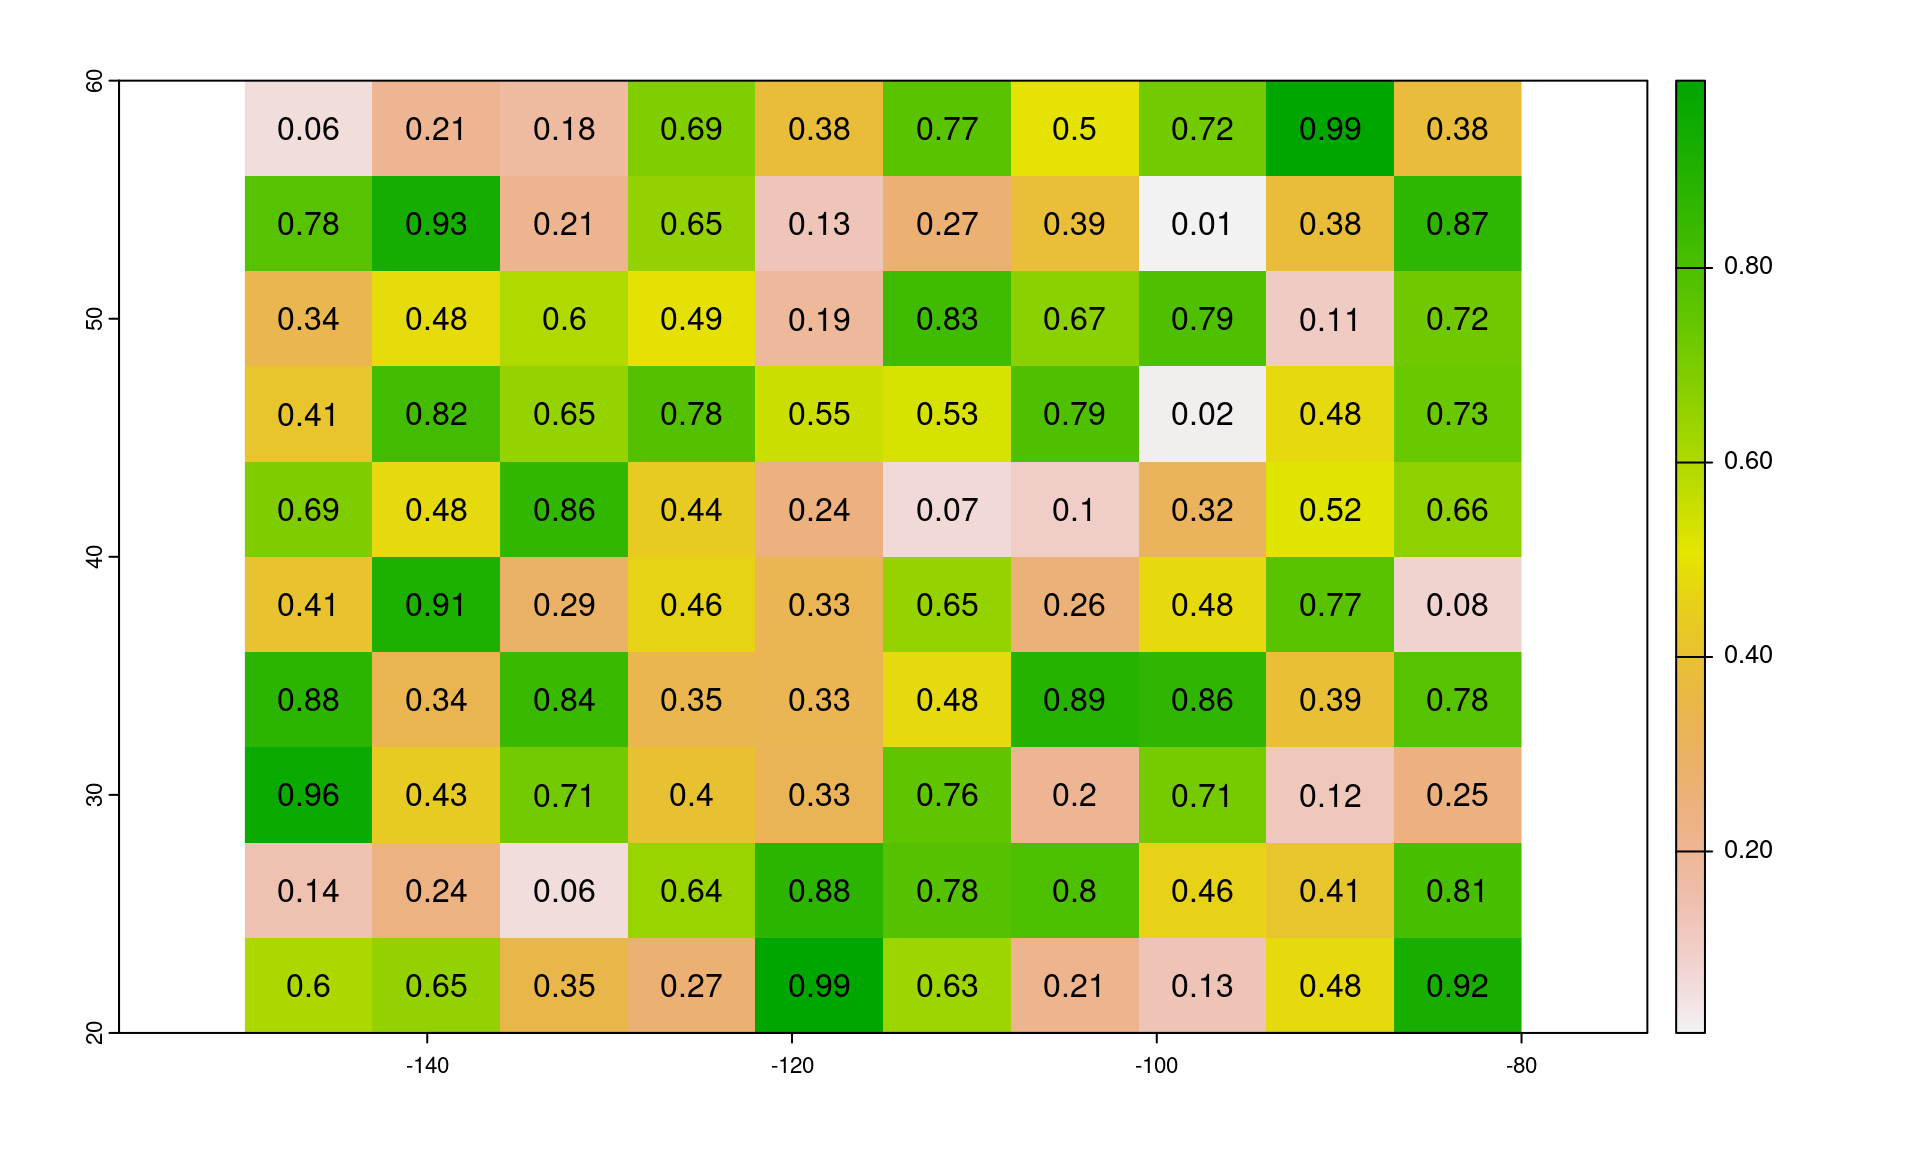
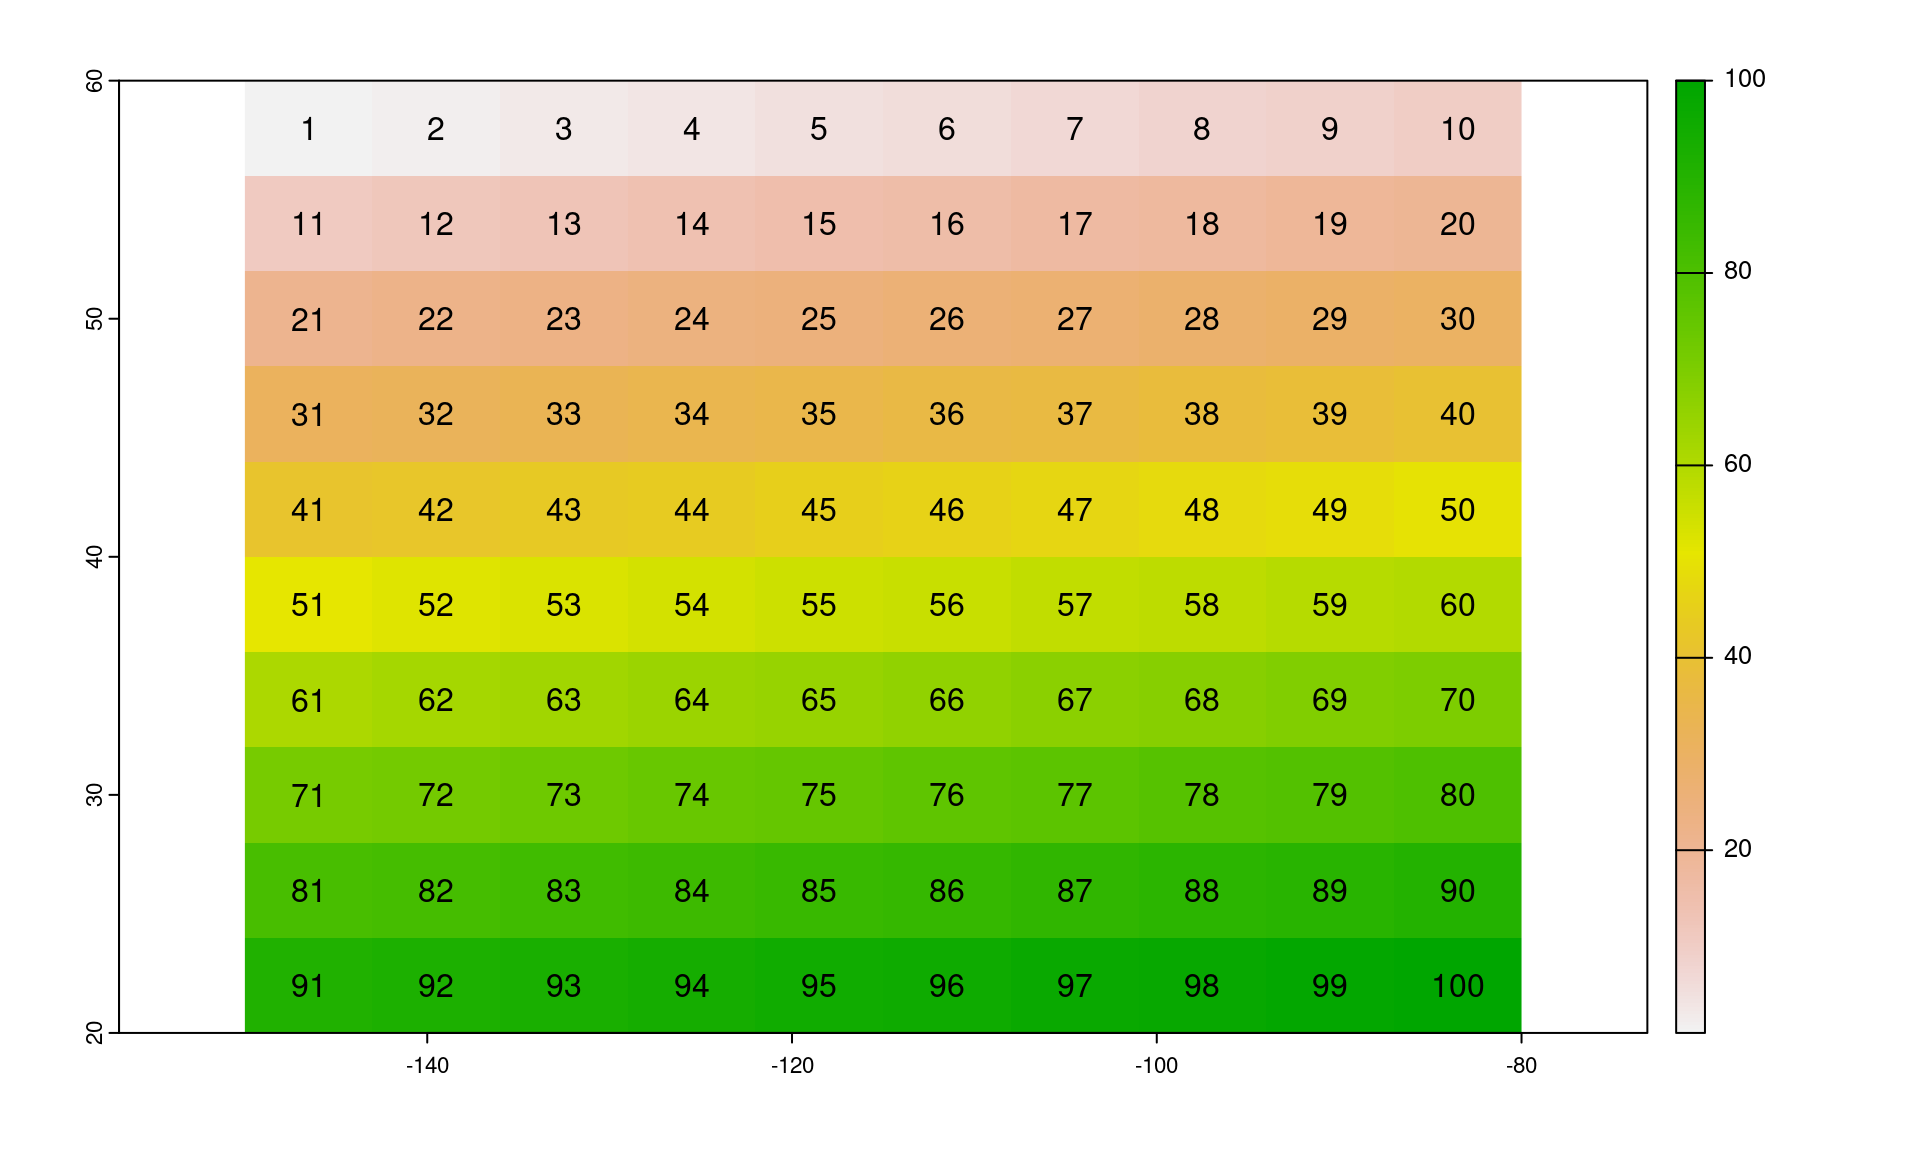
agregar datos espaciales con R

diff --git a/Clase3/slides_clase32.html b/Clase3/slides_clase32.html
@@ -532,8 +532,9 @@
 </ul></li>
 </ul>
 </section>
-<section id="simple-feature-sf-tipos-de-geometrías" class="slide level2 smaller">
-<h2>Simple Feature <code>{sf}</code>: <strong>Tipos de geometrías</strong></h2>
+<section id="simple-feature-sf-1" class="slide level2 smaller">
+<h2>Simple Feature <code>{sf}</code></h2>
+<p><strong>Tipos de geometrías</strong></p>
 <table>
 <colgroup>
 <col style="width: 60%">
@@ -839,10 +840,13 @@ GEOGCRS["NAD27",
 <li><p>Similar es lo que pasa con <code>{stars}</code>, no obstante el futuro de <code>r-spatial</code> será con <code>{stars}</code>, <code>{terra}</code> y <code>{sf}</code></p></li>
 </ol>
 </section>
-<section id="terra" class="slide level2 smalller">
+<section id="terra" class="slide level2">
 <h2>{terra}</h2>
 <p>El paquete <code>{terra}</code> tiene funciones para crear, leer, manipular y guardar datos raster.</p>
 <p>Las clase definida por <code>{terra}</code> es <code>SpatRaster</code></p>
+</section>
+<section id="terra-1" class="slide level2 smalller">
+<h2>{terra}</h2>
 <ul>
 <li>representa un raster multi-capa</li>
 <li>siempre almacena los parametros fundamentales que describen la geometria
@@ -873,7 +877,7 @@ coord. ref. : lon/lat WGS 84 </code></pre>
 <h2>Crear un <code>SpatRaster</code></h2>
 <p>El objeto <code>r</code> solo tiene el esqueleto del raster, pero aún no tiene valores</p>
 <div class="cell">
-<div class="sourceCode cell-code" id="cb40"><pre class="sourceCode numberSource r number-lines code-with-copy"><code class="sourceCode r"><span id="cb40-1"><a href="#cb40-1"></a><span class="fu">values</span>(r) <span class="ot">&lt;-</span> <span class="fu">runif</span>(<span class="fu">ncell</span>(r))</span>
+<div class="sourceCode cell-code" id="cb40"><pre class="sourceCode numberSource r number-lines code-with-copy"><code class="sourceCode r"><span id="cb40-1"><a href="#cb40-1"></a><span class="fu">values</span>(r) <span class="ot">&lt;-</span> <span class="dv">1</span><span class="sc">:</span><span class="fu">ncell</span>(r)</span>
 <span id="cb40-2"><a href="#cb40-2"></a>r</span></code><button title="Copy to Clipboard" class="code-copy-button"><i class="bi"></i></button></pre></div>
 <div class="cell-output cell-output-stdout">
 <pre><code>class       : SpatRaster 
@@ -882,9 +886,9 @@ resolution  : 7, 4  (x, y)
 extent      : -150, -80, 20, 60  (xmin, xmax, ymin, ymax)
 coord. ref. : lon/lat WGS 84 
 source      : memory 
-name        :      lyr.1 
-min value   : 0.01339033 
-max value   : 0.99268406 </code></pre>
+name        : lyr.1 
+min value   :     1 
+max value   :   100 </code></pre>
 </div>
 </div>
 </section>
